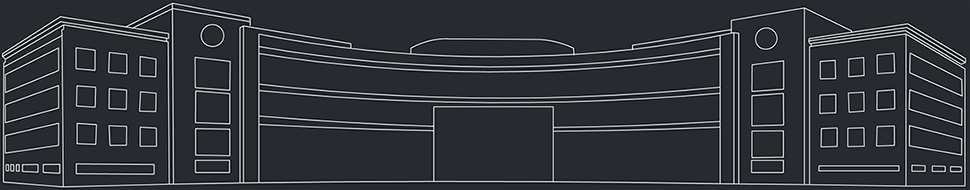
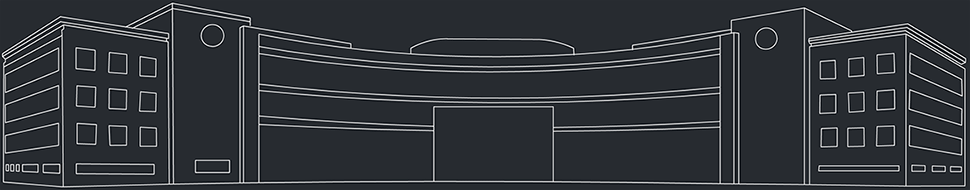
L & XL resolution on dashboard

diff --git a/styles/styles.css b/styles/styles.css
@@ -132,11 +132,32 @@ div.au-stagger {
     position: relative;
 }
 
+    .et-building .et-floor {
+        position: absolute;
+        width: 100%;
+    }
+
+        .et-building .et-floor .et-area {
+            box-shadow: 0 0 1px 1px rgba(252, 252, 252, 0.9);
+            padding: 2px 3px;
+        }
+
+            .et-building .et-floor .et-area .et-room {
+                display: inline-block;
+            }
+
+            .et-building .et-floor .et-area.et-area-left {
+                float: left;
+            }
+
+            .et-building .et-floor .et-area.et-area-right {
+                float: right;
+            }
+
 @media (min-width: 768px) {
     .et-building {
         width: 750px;
         height: 147px;
-        background: transparent url(/media/dashboard.m.png) no-repeat;
     }
 }
 
@@ -146,6 +167,38 @@ div.au-stagger {
         height: 190px;
         background: transparent url(/media/dashboard.l.png) no-repeat;
     }
+
+        .et-building .et-floor.et-floor-4 {
+            top: 56px;
+        }
+
+        .et-building .et-floor.et-floor-3 {
+            top: 91px;
+        }
+
+        .et-building .et-floor.et-floor-2 {
+            top: 125px;
+        }
+
+        .et-building .et-floor.et-floor-1 {
+            top: 156px;
+        }
+
+        .et-building .et-floor .et-area.et-area-left {
+            margin-left: 178px;
+        }
+
+        .et-building .et-floor .et-area.et-area-right {
+            margin-right: 170px;
+        }
+
+        .et-building .et-floor.et-floor-1 .et-area.et-area-left {
+            margin-left: 380px;
+        }
+
+        .et-building .et-floor .et-area .et-room i {
+            font-size: 0.75em;
+        }
 }
 
 @media (min-width: 1200px) {
@@ -154,46 +207,77 @@ div.au-stagger {
         height: 229px;
         background: transparent url(/media/dashboard.xl.png) no-repeat;
     }
-}
 
-.et-building .et-floor {
-    position: absolute;
-    width: 100%;
-}
+        .et-building .et-floor.et-floor-4 {
+            top: 72px;
+        }
 
-    .et-building .et-floor.et-floor-4 {
-        top: 74px;
-    }
+        .et-building .et-floor.et-floor-3 {
+            top: 113px;
+        }
 
-    .et-building .et-floor.et-floor-3 {
-        top: 114px;
-    }
+        .et-building .et-floor.et-floor-2 {
+            top: 154px;
+        }
 
-    .et-building .et-floor.et-floor-2 {
-        top: 156px;
-    }
+        .et-building .et-floor.et-floor-1 {
+            top: 191px;
+        }
 
-    .et-building .et-floor.et-floor-1 {
-        top: 189px;
-    }
+        .et-building .et-floor .et-area.et-area-left {
+            margin-left: 216px;
+        }
+
+        .et-building .et-floor .et-area.et-area-right {
+            margin-right: 205px;
+        }
+
         .et-building .et-floor.et-floor-1 .et-area.et-area-left {
             margin-left: 460px;
         }
-
-    .et-building .et-floor .et-area.et-area-left {
-        float: left;
-        margin-left: 239px;
-    }
-
-    .et-building .et-floor .et-area.et-area-right {
-        float: right;
-        margin-right: 224px;
-    }
-
-    .et-building .et-floor .et-area .et-room {
-        padding: 0;
-        line-height: 16px;
-    }
-
-        .et-building .et-floor .et-area .et-room > i {
+        .et-building .et-floor .et-area .et-room i {
+            font-size: 1em;
         }
+}
+
+@media (min-width: 1600px) {
+    .et-building {
+        width: 1570px;
+        height: 308px;
+        background: transparent url(/media/dashboard.xxl.png) no-repeat;
+    }
+
+        .et-building .et-floor.et-floor-4 {
+            top: 99px;
+        }
+
+        .et-building .et-floor.et-floor-3 {
+            top: 155px;
+        }
+
+        .et-building .et-floor.et-floor-2 {
+            top: 209px;
+        }
+
+        .et-building .et-floor.et-floor-1 {
+            top: 258px;
+        }
+        .et-building .et-floor .et-area {
+            padding: 5px 5px 4px;
+        }
+
+        .et-building .et-floor .et-area.et-area-left {
+            margin-left: 290px;
+        }
+
+        .et-building .et-floor .et-area.et-area-right {
+            margin-right: 286px;
+        }
+
+        .et-building .et-floor.et-floor-1 .et-area.et-area-left {
+            margin-left: 600px;
+        }
+        .et-building .et-floor .et-area .et-room i {
+            font-size: 1.3em;
+        }
+}
